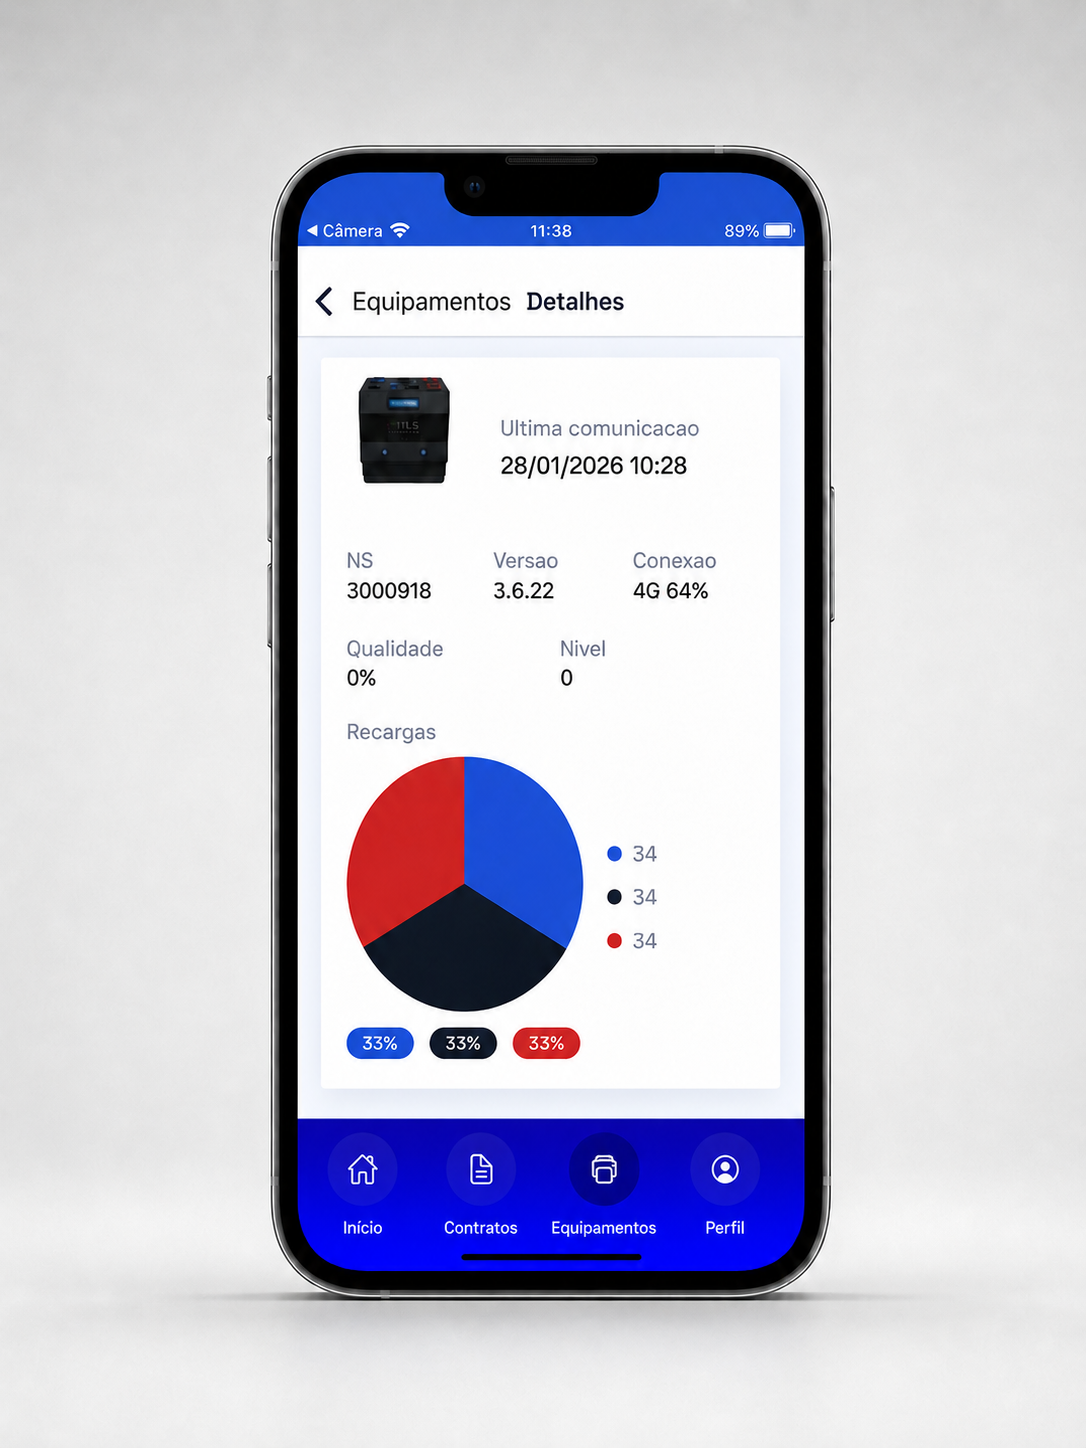
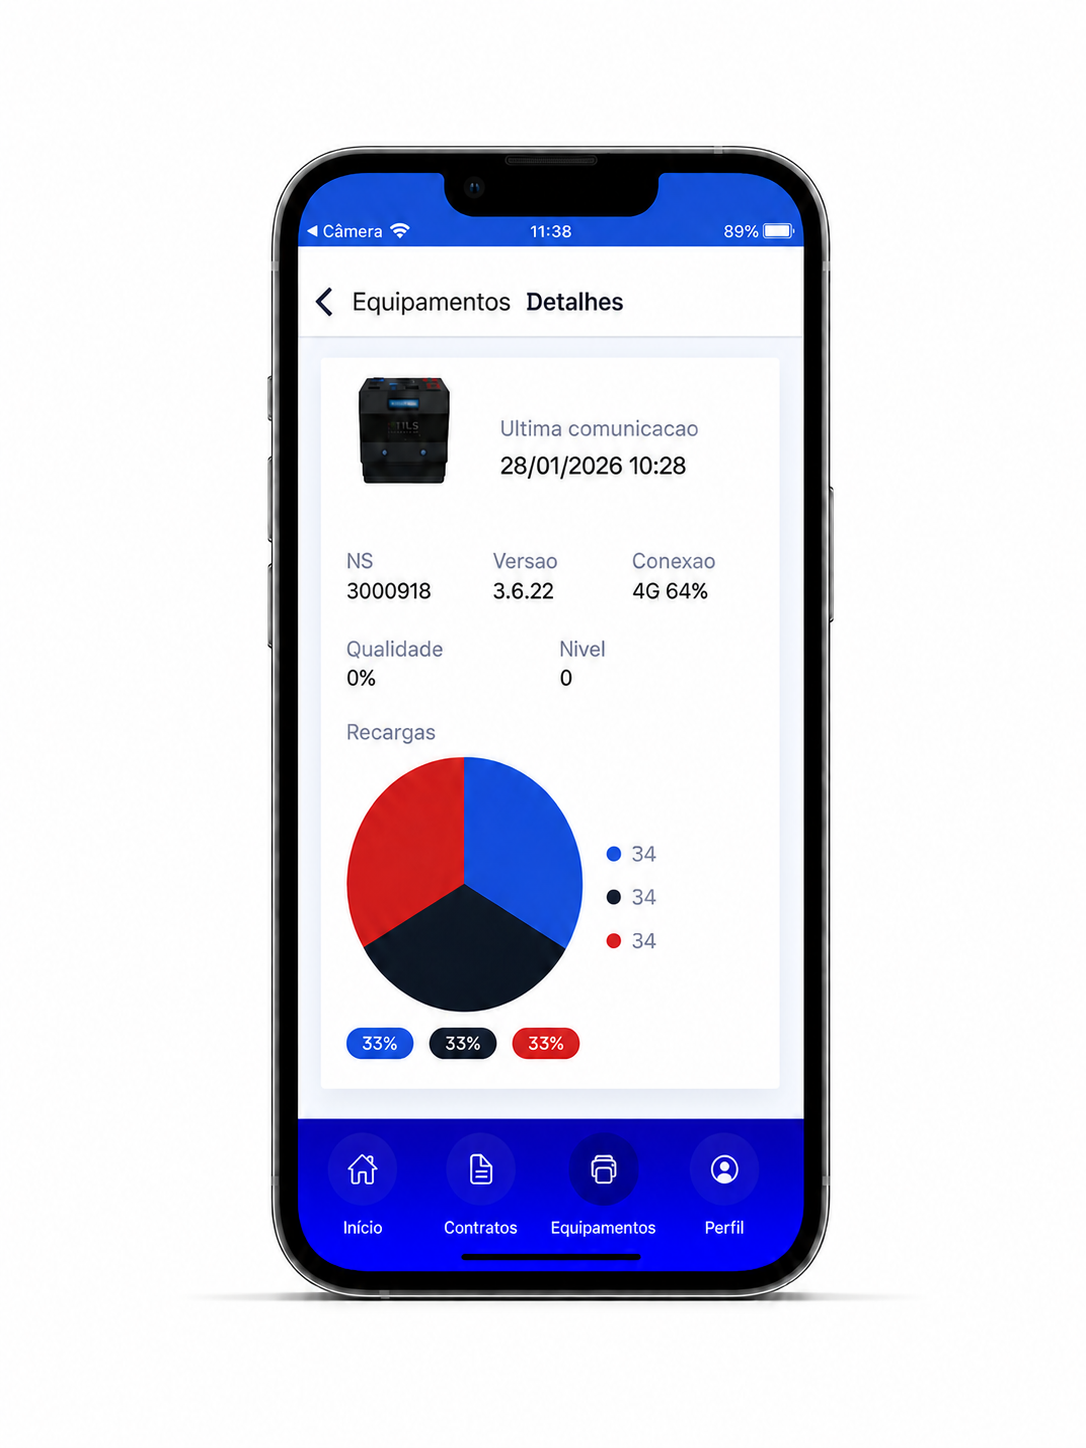
fix: aplica fundo branco na imagem do app

diff --git a/src/styles/site.css b/src/styles/site.css
@@ -527,21 +527,6 @@ body.site::before {
   object-fit: contain;
 }
 
-.site-produto-foto--mesclada img {
-  -webkit-mask-image: radial-gradient(
-    ellipse 82% 94% at center,
-    #000 68%,
-    rgba(0, 0, 0, 0.82) 82%,
-    transparent 100%
-  );
-  mask-image: radial-gradient(
-    ellipse 82% 94% at center,
-    #000 68%,
-    rgba(0, 0, 0, 0.82) 82%,
-    transparent 100%
-  );
-}
-
 .site-produto-corpo {
   display: flex;
   flex-direction: column;